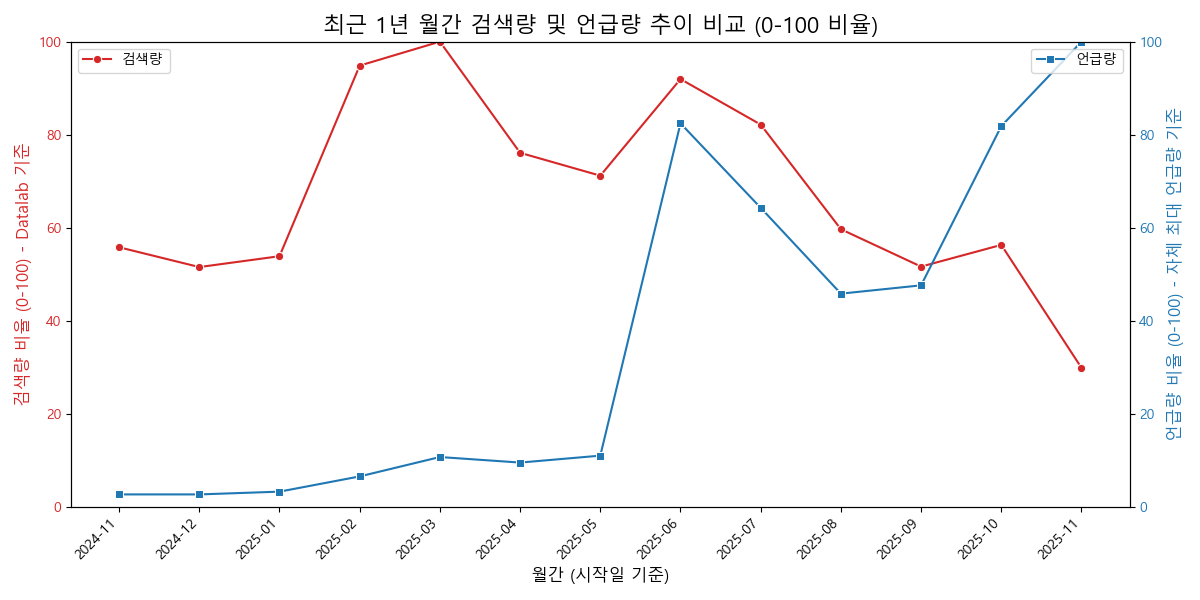
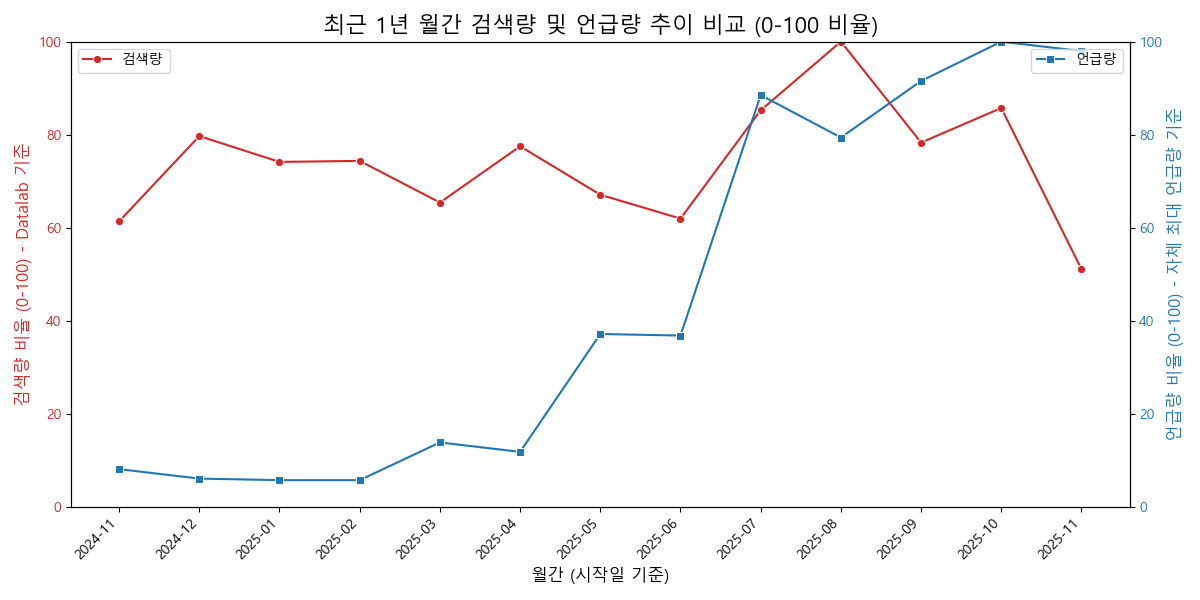
front : 월별 언급량 그래프 토글 활성화

diff --git a/templates/index.html b/templates/index.html
@@ -52,7 +52,9 @@
         <div class="littletitle">
           <h4>이슈 확산 포인트</h4>
           <b id="truepoint">여기</b>
+          <h6 id="last-month">*일정수준 이상의 검색량 급증을 기준으로 판단</h6>
         </div>
+        
       </div>
       <div class="card card-small">
         <div class="circle calendar">
@@ -128,7 +130,7 @@
           </div>
         </div>
         {% if data %}
-        <img src="{{ data.visualization_urls.weekly_frequency }}" alt="언급량 추이 그래프" style="width: 100%; height: auto;">
+        <img id="frequency-graph" src="{{ data.visualization_urls.weekly_frequency }}" alt="언급량 추이 그래프" style="width: 100%; height: auto;">
         {% else %}
         <div class="graph-placeholder">그래프</div>
         {% endif %}
@@ -477,7 +479,7 @@
 
                 // '언급 횟수' 키를 사용하여 최댓값(maxCount)을 가져옵니다.
                 const maxCount = topKeywordsData[0]['언급 횟수']; 
-                const keywordsToDisplay = topKeywordsData.slice(0, 7); 
+                  const keywordsToDisplay = topKeywordsData.slice(0, 20); 
 
                 keywordsToDisplay.forEach((item, index) => {
                     const listItem = document.createElement('li');
@@ -657,7 +659,39 @@
 
         // 🚀 페이지 로드 시 초기 항목 로드
         loadMoreItems();
+
+        // --- 2E. 💡 언급량 추이 그래프 토글 버튼 (주별/월별) ---
+        const toggleButtons = document.querySelectorAll('.toggle-btn');
+        const frequencyGraph = document.getElementById('frequency-graph');
+
+        if (toggleButtons && frequencyGraph) {
+            toggleButtons.forEach(button => {
+                button.addEventListener('click', () => {
+                    const frequency = button.getAttribute('data-frequency');
+
+                    // 모든 버튼에서 'active' 클래스 제거
+                    toggleButtons.forEach(btn => btn.classList.remove('active'));
+
+                    // 클릭한 버튼에 'active' 클래스 추가
+                    button.classList.add('active');
+
+                    // 빈도에 따라 이미지 URL 변경
+                    if (frequency === 'weekly') {
+                        frequencyGraph.src = "{{ data.visualization_urls.weekly_frequency }}";
+                        frequencyGraph.alt = '주별 언급량 추이 그래프';
+                    } else if (frequency === 'monthly') {
+                        frequencyGraph.src = "{{ data.visualization_urls.monthly_frequency }}";
+                        frequencyGraph.alt = '월별 언급량 추이 그래프';
+                    }
+
+                    console.log(`언급량 추이 그래프 변경: ${frequency}`);
+                });
+            });
+        } else {
+            console.warn("토글 버튼 또는 그래프 요소를 찾을 수 없습니다.");
+        }
         });
+        
     </script>
     {% endif %}
   </body>

diff --git a/static/style.css b/static/style.css
@@ -192,6 +192,7 @@ body {
   padding: 20px;
   display: flex;
   flex-direction: column; /* 내부 요소(제목, 3-content) 세로 정렬 */
+  
   gap: 10px;
 }
 
@@ -399,6 +400,20 @@ body {
   gap: 10px;
 }
 
+/* 키워드 랭킹 목록 내부 스크롤 설정: 많은 항목이 있어도 카드가 늘어나지 않도록 고정 높이와 내부 스크롤을 적용합니다. */
+.keyword-ranking .ranking-list {
+  display: flex;
+  flex-direction: column;
+  gap: 12px;
+  /* 항목 사이 여백 */
+  max-height: 300px;
+  /* 필요에 따라 조정하세요 */
+  overflow-y: auto;
+  padding-right: 8px;
+  /* 스크롤바와 내용 사이 여백 */
+  margin: 0;
+  /* 기본 ol 여백 제거 */
+}
 .visualization-area h2,
 .keyword-ranking h2 {
   margin: 0;

diff --git a/analysis_core.py b/analysis_core.py
@@ -71,17 +71,30 @@ MAX_RESULTS_PER_API = 1000
 
 # --- 순수 Python 감성 사전 정의 (Lexicon) ---
 POSITIVE_WORDS = [
-    '좋아요', '최고', '만족', '추천', '강력추천', '대박', '예쁘', '편안', '행복', '감사', 
-    '기쁨', '훌륭', '사랑', '재미', '즐거움', '성공', '합격', '선물', '따뜻', '밝은', 
-    '완벽', '인생템', '가성비', '착한', '놀랍', '기대', '보람', '깨끗', '싱그러', '프리미엄'
+    '좋아요', '최고', '만족', '추천', '강력추천', '대박', '예쁘', '예쁘다', '편안', '편안함',
+    '행복', '감사', '기쁨', '훌륭', '사랑', '재미', '즐거움', '성공', '합격', '선물',
+    '따뜻', '밝은', '완벽', '인생템', '가성비', '착한', '놀랍', '기대', '보람', '깨끗',
+    '싱그럽', '프리미엄', '친절', '신뢰', '편리', '안정성', '풍부', '효율적', '세련', '프렌들리',
+    '믿음', '가치', '만족감', '추천합니다', '짱', '최고예요', '좋네요', '감동', '재구매', '재구매의사',
+    '만족스러움', '고급', '퀄리티', '뛰어남', '만족스럽다', '훌륭해요', '믿을만', '편안해요', '사랑스러', '사랑스러움',
+    '편리함', '안정적', '풍성', '만족도', '효율성', '인기', '유용', '실용적', '강추', '강추합니다',
+    '추천해요', '감사해요', '기뻐요', '만족했다', '좋습니다', '최고임', '편안함이', '친절해요', '가성비좋', '경제적',
+    '만족도가', '만족했던', '깔끔', '깔끔함', '신속', '신속함', '정확', '정확함', '편안한', '포근',
+    '달콤', '시원', '풍미', '활력', '안정감', '만족스러운', '놀랍다', '기대이상', '추천받음', '기대만큼'
 ]
 
 NEGATIVE_WORDS = [
-    '별로', '실망', '아쉬움', '나쁘', '불만', '불편', '최악', '힘들', '걱정', '문제', 
+    '별로', '실망', '아쉬움', '나쁘', '불만', '불편', '최악', '힘들', '걱정', '문제',
     '어려움', '부족', '실패', '낭비', '쓰레기', '비싸', '떨어짐', '실망스럽', '지루', '후회',
-    '이상', '오류', '짜증', '고통', '논란', '부정적', '약점', '결함', '복잡', '불필요'
+    '이상', '오류', '짜증', '고통', '논란', '부정적', '약점', '결함', '복잡', '불필요',
+    '무성의', '불친절', '지저분', '과대광고', '오래걸림', '허접', '번거로움', '부정확', '비추천', '불신',
+    '불만족', '불만족스러움', '불쾌', '불만족하다', '불만족스럽다', '불안정', '질낮', '저급', '형편없', '엉망',
+    '망함', '실패작', '불편함', '성가심', '번거로워요', '못함', '부실', '불량', '손해', '불친절함',
+    '비추', '비추합니다', '무책임', '취약', '반품', '환불', '불만족했다', '부작용', '문제있', '불편했다',
+    '짜증나요', '사용불가', '먹먹', '불편한', '못쓰겠다', '고장', '터무니없', '불만족감', '불편함이', '불쾌감',
+    '불합리', '악화', '악성', '부정', '부적절', '실망스러웠다', '실망했다', '후회한다', '실망해요', '최악이다',
+    '최악이에요', '형편없다', '엉망진창', '엉성', '값비싼', '불친절했어요', '불편했습니다', '부정확함', '부주의', '문제가있다'
 ]
-
 # --- 폰트 설정 (통합 로직) ---
 # 1. 시스템에 설치된 한글 폰트 찾기
 def get_korean_font():
@@ -108,10 +121,10 @@ if korean_font_name:
     # 안정적인 사용자 환경을 가정하고 유지합니다.
     # font_manager.fontManager.addfont(korean_font_path)
     rc('font', family=korean_font_name)
-    print(f"-> ✅ 한글 폰트 '{korean_font_name}' 설정 완료.")
+    print(f"-> [OK] 한글 폰트 '{korean_font_name}' 설정 완료.")
     FONT_PATH = korean_font_path # 워드클라우드용 경로 설정
 else:
-    print("-> ⚠ 한글 폰트를 찾을 수 없습니다. 기본 폰트로 실행합니다.")
+    print("[WARNING] 한글 폰트를 찾을 수 없습니다. 기본 폰트로 실행합니다.")
     FONT_PATH = None
     
 plt.rcParams['axes.unicode_minus'] = False # 마이너스 기호 깨짐 방지
@@ -316,13 +329,16 @@ def get_search_trend(query, client_id, client_secret):
 # --- 시각화 함수 (플롯 객체 생성) ---
 # ----------------------------------------------------
 
+# ⚠ [수정] 이 함수 전체를 복사해서 기존 함수를 덮어쓰세요.
+
 def visualize_post_frequency(df, frequency_type='monthly'): 
     """ 단일 통합 데이터프레임을 받아 월별 또는 주별 언급량 추이를 시각화하고 플롯 객체를 반환합니다. """
     time_unit = "월별" if frequency_type == 'monthly' else "주별"
     time_span = "12개월" if frequency_type == 'monthly' else "6개월"
     color = 'darkorange' if frequency_type == 'monthly' else 'purple'
     
-    print(f"\n--- 3단계 분석: {time_unit} 언급량 시각화 ({time_span}) (현재 기간 제외) ---")
+    # ⚠ [수정] 제목에서 "(현재 기간 제외)" 문구 삭제
+    print(f"\n--- 3단계 분석: {time_unit} 언급량 시각화 ({time_span}) ---")
     
     temp_df = df.copy()
     
@@ -339,25 +355,38 @@ def visualize_post_frequency(df, frequency_type='monthly'):
         
     now = datetime.now().replace(hour=0, minute=0, second=0, microsecond=0)
     
-    # 🌟 이전에 생략 주석이 있던 부분 (이제 로직이 모두 포함되어 깔끔해졌습니다) 🌟
     if frequency_type == 'monthly':
-        current_month_start = now.replace(day=1)
-        # 현재 월보다 이전 데이터만 사용
-        df_filtered = temp_df[temp_df['postdate'] < current_month_start].copy()
+        
+        # ⚠ [수정] 현재 월을 제외하는 필터를 제거하고, 모든 데이터를 사용합니다.
+        # df_filtered = temp_df[temp_df['postdate'] < current_month_start].copy() # <-- 기존 코드
+        df_filtered = temp_df.copy() # <-- 수정된 코드 (모든 데이터 사용)
+        
         start_date_offset = pd.DateOffset(months=12)
         freq_label = 'post_month'
         freq_unit = 'MS'
         
         if not df_filtered.empty:
-            # 최근 12개월 데이터만 필터링 (최신 날짜 기준으로 12개월)
+            # 최근 12개월 데이터만 필터링 (최신 날짜 기준)
             latest_date = df_filtered['postdate'].max()
-            df_filtered = df_filtered[df_filtered['postdate'] >= (latest_date - start_date_offset)].copy()
+            # [추가] 혹시 모를 미래 날짜 데이터 방지를 위해 now로 상한선 적용
+            latest_date_cap = min(latest_date, now)
+            
+            # 12개월 전 데이터만 필터링
+            df_filtered = df_filtered[
+                (df_filtered['postdate'] >= (latest_date_cap - start_date_offset)) &
+                (df_filtered['postdate'] <= latest_date_cap) # ⚠ [추가] 현재 날짜 상한선
+            ].copy()
+            
             df_filtered[freq_label] = df_filtered['postdate'].dt.strftime('%Y-%m')
             counts_raw = df_filtered[freq_label].value_counts().sort_index()
             
+            if counts_raw.empty: # ⚠ [추가] 필터링 후 비어있을 수 있음
+                 print(f"경고: 필터링 결과 최근 {time_span} 이내의 유효한 게시물이 없어 {time_unit} 분석을 건너뜕니다.")
+                 return None
+
             # 빈 월을 채우기 위한 전체 레이블 생성
-            start_month = counts_raw.index.min() if not counts_raw.empty else (now - start_date_offset).strftime('%Y-%m')
-            end_month = counts_raw.index.max() if not counts_raw.empty else (now - pd.DateOffset(months=1)).strftime('%Y-%m')
+            start_month = counts_raw.index.min()
+            end_month = counts_raw.index.max()
             
             full_index_range = pd.date_range(start=start_month, end=end_month, freq=freq_unit)
             full_labels = full_index_range.strftime('%Y-%m')
@@ -367,60 +396,60 @@ def visualize_post_frequency(df, frequency_type='monthly'):
             return None # None 반환으로 통일
 
     elif frequency_type == 'weekly':
-        # 현재 주차의 시작일 (월요일 시작으로 가정)
-        # 현재 주차 시작일 (월요일)
+        # (주별 분석 로직은 로그상 정상 작동했으므로 그대로 둡니다)
         current_week_start = (now - timedelta(days=now.weekday()))
         
-        # 현재 주보다 이전 데이터만 사용
         df_filtered = temp_df[temp_df['postdate'] < current_week_start].copy()
-        start_date_offset = pd.DateOffset(months=6) # 주별은 최근 6개월 기준
+        start_date_offset = pd.DateOffset(months=6) 
 
         if not df_filtered.empty:
-            # 최근 6개월 데이터만 필터링
             latest_date = df_filtered['postdate'].max()
             df_filtered = df_filtered[df_filtered['postdate'] >= (latest_date - start_date_offset)].copy()
             
-            # ** 🎯 핵심 수정: resample을 사용하여 주차별 카운트 및 빈 주차 채우기 **
-            
-            # postdate를 인덱스로 설정
+            if df_filtered.empty: # ⚠ [추가] 필터링 후 비어있을 수 있음
+                print(f"경고: 필터링 결과 최근 {time_span} 이내의 유효한 게시물이 없어 {time_unit} 분석을 건너뜕니다.")
+                return None
+
             df_resample = df_filtered.set_index('postdate')
-            
-            # 'W'를 사용하여 주별로 재표본 추출 (기본적으로 일요일에 끝나는 주차로 카운트)
-            counts_resampled = df_resample.resample('W').size() # count.value_counts() 대신 size() 사용
+            counts_resampled = df_resample.resample('W').size() 
             
             full_counts = counts_resampled
             
-            # resample 결과 인덱스 (날짜 객체)를 'YYYY-MM-DD' 형식의 문자열 레이블로 변환
             full_counts.index = full_counts.index.strftime('%Y-%m-%d')
-            full_labels = full_counts.index.tolist() # 재색인 불필요
+            full_labels = full_counts.index.tolist() 
             rotation_angle = 90
         else:
             print(f"경고: 필터링 결과 최근 {time_span} 이내의 유효한 게시물이 없어 {time_unit} 분석을 건너뜕니다.")
-            return None # None 반환으로 통일
+            return None 
     
     else:
         return None
 
-    if 'full_counts' not in locals() or full_counts.empty: # full_counts 변수 생성 확인 및 비어있는지 확인
+    # ⚠ [수정] 'full_counts'가 정의되지 않았을 수 있으므로 locals() 체크 제거
+    # 'monthly'의 경우 full_counts가 여기서 정의되므로, counts_raw로 대신 체크
+    if frequency_type == 'monthly' and (not 'counts_raw' in locals() or counts_raw.empty): 
+        print(f"경고: 필터링 결과 최근 {time_span} 이내의 유효한 게시물이 없어 {time_unit} 분석을 건너뜕니다.")
+        return None
+    elif frequency_type == 'weekly' and (not 'full_counts' in locals() or full_counts.empty):
         print(f"경고: 필터링 결과 최근 {time_span} 이내의 유효한 게시물이 없어 {time_unit} 분석을 건너뜕니다.")
         return None
 
-    # 월별 로직을 따르기 위해 full_counts를 counts_raw와 full_labels로 분리 (주별 로직은 이미 full_counts에 통합됨)
     if frequency_type == 'monthly':
         counts_series = counts_raw.rename('count')
         full_counts = counts_series.reindex(full_labels, fill_value=0)
     
     # 시각화 실행
-    plt.figure(figsize=(15 if frequency_type == 'weekly' else 12, 6))
+    # ⚠ [수정] fig 변수에 플롯 객체를 할당
+    fig = plt.figure(figsize=(15 if frequency_type == 'weekly' else 12, 6))
     sns.lineplot(
         x=full_counts.index, y=full_counts.values, marker='o', color=color
     )
 
-    plt.title(f'최근 {time_span} 언급량 추이 (현재 {time_unit[:-1]} 제외)', fontsize=16) 
+    # ⚠ [수정] 제목에서 "(현재 ... 제외)" 문구 삭제
+    plt.title(f'최근 {time_span} 언급량 추이', fontsize=16) 
     
-    # 주별/월별에 따라 x축 레이블 설정
     if frequency_type == 'weekly':
-        plt.xlabel(f'언급 {time_unit} (주차 종료일)', fontsize=12) # 레이블 수정
+        plt.xlabel(f'언급 {time_unit} (주차 종료일)', fontsize=12) 
     else:
         plt.xlabel(f'언급 {time_unit}', fontsize=12) 
         
@@ -431,7 +460,9 @@ def visualize_post_frequency(df, frequency_type='monthly'):
     plt.tight_layout()
     
     print(f"-> 통합 데이터 {time_unit} 언급량 시각화 플롯 객체 생성 완료.")
-    return plt
+    
+    # ⚠ [수정] fig 객체를 반환 (save_and_get_url 호환)
+    return fig
 
 def visualize_combined_trend(total_df, trend_df):
     """ 검색량(월간)과 언급량(월간)을 하나의 그래프에 시각화하고 플롯 객체를 반환합니다. """
@@ -539,8 +570,9 @@ def visualize_sentiment_word_clouds(df, positive_words, negative_words):
     all_counts_top20 = get_word_counts(ALL_SENTIMENT_WORDS, cleaned_text, max_words=20)
     all_plot = create_wordcloud_plot(all_counts_top20, '긍정+부정 통합 키워드 태그 클라우드 (Top 20)', 'plasma')
     
-    all_counts_top7 = {k: all_counts_top20[k] for k in list(all_counts_top20.keys())[:min(7, len(all_counts_top20))]}
-    all_df = pd.DataFrame(all_counts_top7.items(), columns=['키워드', '언급 횟수'])
+    # 상위 20개 키워드를 반환하도록 변경
+    all_counts_top20_selected = {k: all_counts_top20[k] for k in list(all_counts_top20.keys())[:min(20, len(all_counts_top20))]}
+    all_df = pd.DataFrame(all_counts_top20_selected.items(), columns=['키워드', '언급 횟수'])
     
     print("-> 감성 사전 기반 워드클라우드 플롯 객체 생성 및 상위 키워드 분석 완료.")
     return pos_plot, neg_plot, all_plot, all_df
@@ -641,12 +673,29 @@ def find_outbreak_weeks(trend_df, change_threshold=0.5):
     if not outbreak_months_df.empty:
         outbreak_months_df = outbreak_months_df.sort_values(by='ratio', ascending=False)
         for _, row in outbreak_months_df.iterrows():
-            month_start = row['date'].strftime('%Y-%m')
+            date_obj = row['date']
+            year = date_obj.year
+            month = date_obj.month
+            
+            # 월의 첫 날을 기준으로 주차 계산 (ISO 주차 사용)
+            # ISO 주차: 월요일을 주의 시작으로 함
+            iso_calendar = date_obj.isocalendar()
+            week_of_year = iso_calendar[1]  # ISO 주차 (1~53)
+            
+            # 더 직관적인 월별 주차 계산: 월의 첫 날부터의 주차
+            # (0-based index에서 +1 하여 1~5 범위)
+            first_day_of_month = date_obj.replace(day=1)
+            days_since_month_start = (date_obj - first_day_of_month).days
+            week_of_month = (days_since_month_start // 7) + 1
+            
             current_ratio = row['ratio']
             prev_ratio = row['prev_ratio']
             
             rate_str = f"{row['change_rate'] * 100:.1f}% 증가" if row['prev_ratio'] > 0 else "신규 발생 (전월 0)"
-            outbreak_results.append(f"{month_start} (현재 비율: {current_ratio:.1f}, 전월: {prev_ratio:.1f}, {rate_str})")
+            
+            # 년/월/주차 형식으로 포맷팅
+            date_with_week = f"{year}-{month:02d}/{week_of_month}주차"
+            outbreak_results.append(f"{date_with_week} (현재 비율: {current_ratio:.1f}, 전월: {prev_ratio:.1f}, {rate_str})")
             
         print(f"-> ✅ 총 {len(outbreak_results)}개의 검색량 급증 월간을 찾았습니다.")
         

diff --git a/app.py b/app.py
@@ -1,8 +1,7 @@
 # app.py (Flask 서버)
 from flask import Flask, request, jsonify, render_template, redirect, url_for
 import os
-from analysis_core import run_full_analysis 
-
+from analysis_core import run_full_analysis
 app = Flask(__name__, static_url_path='/static', static_folder='static',template_folder='templates')
 
 # ⚠ [필수 수정] 여기에 실제 Naver API 정보를 입력하세요! ⚠
@@ -131,6 +130,8 @@ def compare_competitor():
             STATIC_FOLDER
         )
         
+        print(f"DEBUG: competitor_comparison_url = {competitor_comparison_url}")
+        
         # competitor_data 저장 (비교 그래프 URL만 저장)
         competitor_data = {
             'query': competitor_query,
@@ -138,6 +139,8 @@ def compare_competitor():
                 'competitor_comparison': competitor_comparison_url
             }
         }
+        
+        print(f"DEBUG: competitor_data = {competitor_data}")
         
     except Exception as e:
         print(f"ERROR during competitor analysis: {e}")
@@ -155,7 +158,7 @@ def compare_competitor():
 
 # ----------------------------------------------------
 # 🚀 서버 실행
-# ----------------------------------------------------
+# --------
 if __name__ == '__main__':
     # ⚠ [수정] 포트를 8000번으로 설정합니다.
     app.run(debug=True, port=8000)
